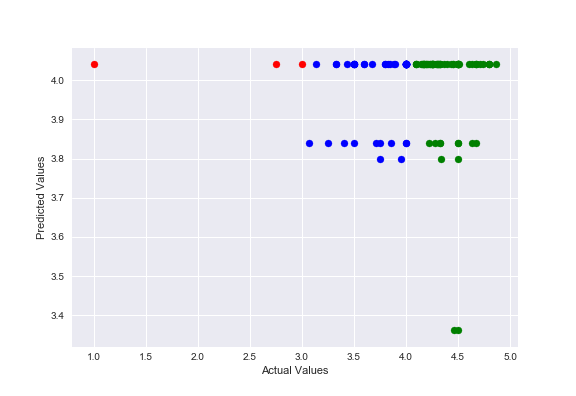
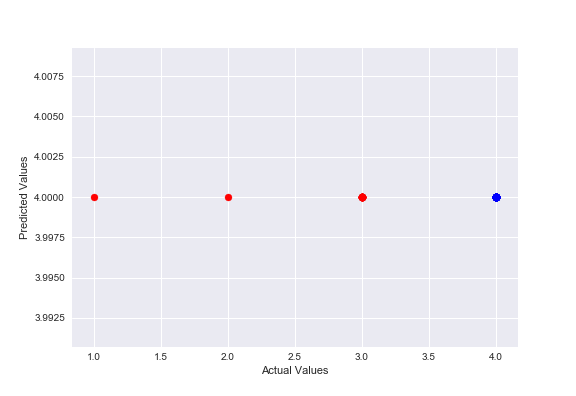
Added MLP approach

diff --git a/create_model.py b/create_model.py
@@ -8,6 +8,8 @@ from sklearn.metrics import f1_score,precision_score,recall_score,accuracy_score
 from sklearn import svm
 from sklearn.ensemble import RandomForestClassifier
 from sklearn.naive_bayes import GaussianNB
+from sklearn.neural_network import MLPClassifier
+from sklearn.neural_network import MLPRegressor
 import math
 import matplotlib.pyplot as plt
 import seaborn as sn
@@ -22,10 +24,10 @@ test=  tourist.loc[~tourist.index.isin(train.index)]
 target="Rating"
 columns=[c for c in columns if c not in["Rating","City"]]  
 
-trainAttributes=train[columns].astype('float64')#.apply(np.floor)
-trainTarget=train[target].astype('float64')#.apply(np.floor)
-testAttributes=test[columns].astype('float64')#.apply(np.floor)
-testTarget=test[target].astype('float64')#.apply(np.floor)
+trainAttributes=train[columns].astype('float64').apply(np.floor)
+trainTarget=train[target].astype('float64').apply(np.floor)
+testAttributes=test[columns].astype('float64').apply(np.floor)
+testTarget=test[target].astype('float64').apply(np.floor)
 
 count1=0
 count2=0
@@ -60,8 +62,10 @@ lregr=linear_model.LinearRegression()
 svm_clf = svm.SVC( kernel='rbf')
 rndf_clf = RandomForestClassifier(max_depth=2, random_state=0)
 gnb = GaussianNB()
+mlpC = MLPClassifier(hidden_layer_sizes= 4 ) 
+mlpR = MLPRegressor(hidden_layer_sizes= 4 )
 
-regr.fit(trainAttributes,trainTarget)
+mlpC.fit(trainAttributes,trainTarget)
 
 # =============================================================================
 filename = 'MachineLearningModel.pkl'
@@ -85,17 +89,17 @@ unmodifiedactualList = []
 for x in range(0,len(testTarget)):
     h=testAttributes.iloc[x]
     h=np.array(h).reshape(1,-1)
-    p= int(math.floor(float(regr.predict(h))))
+    p= int(math.floor(float(mlpC.predict(h))))
     a= int(math.floor(float(testTarget[x])))
 # =============================================================================
 #     p= float(rndf.predict(h))
 #     a= float(testTarget[x])
 # =============================================================================
-    print(test['City'].iloc[x],"\t",testTarget[x],"\t",regr.predict(h))
+    print(test['City'].iloc[x],"\t",testTarget[x],"\t",mlpC.predict(h))
     Matrix[p-1][a-1] += 1 
     predictedList.append(p)
     actualList.append(a)
-    unmodifiedpredictedList.append(regr.predict(h))
+    unmodifiedpredictedList.append(mlpC.predict(h))
     unmodifiedactualList.append(testTarget[x])
     #print(regr.predict(h)," ",testTarget[x])
 
